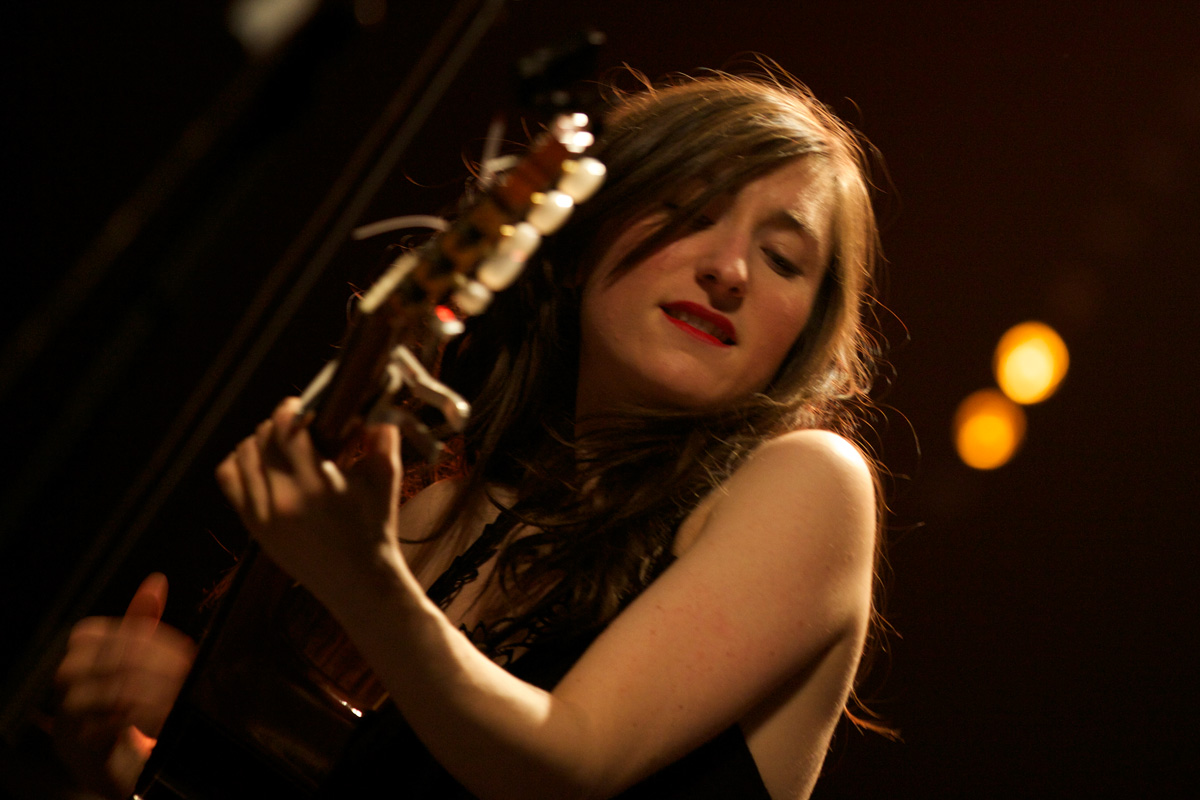
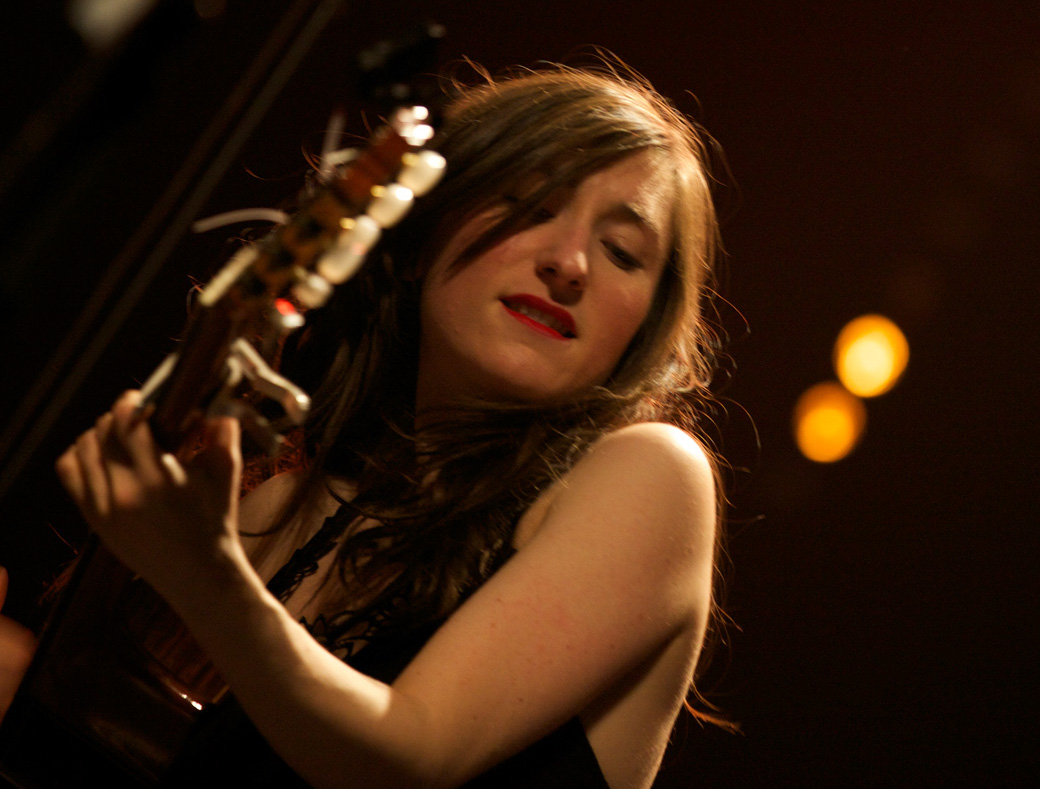
Photo et layout modifs pour Home Page

diff --git a/app/assets/stylesheets/pages/_home.scss b/app/assets/stylesheets/pages/_home.scss
@@ -1,11 +1,13 @@
 #pif, #pouf {
   height: 27em;
   color: white;
+  transition: .1s ease-in-out;
 }
 
 #paf {
   height: 32em;
   color: white;
+  transition: .1s ease-in-out;
 }
 
 #bigdiv:hover {
@@ -17,17 +19,19 @@
   }
 }
 
+
 #pif:hover {
   // height: 32em;
-  width: 26rem;
+  width: 32rem;
 }
 
 #paf:hover {
-  width: 26rem;
+  width: 30rem;
+
 }
 #pouf:hover {
   // height: 32em;
-  width: 26rem;
+  width: 32rem;
 }
 
 .wraper{
